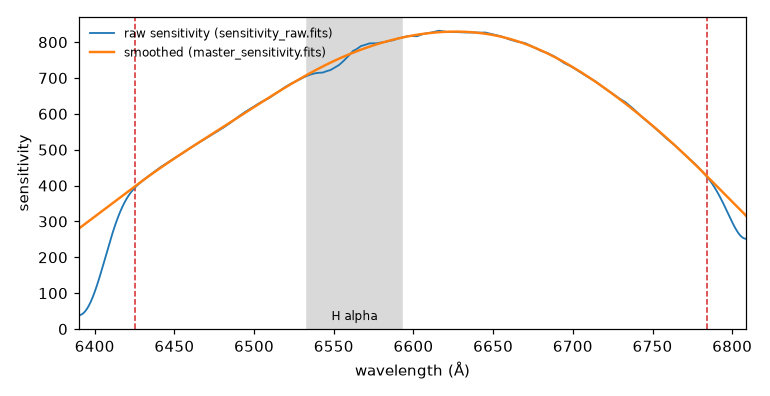
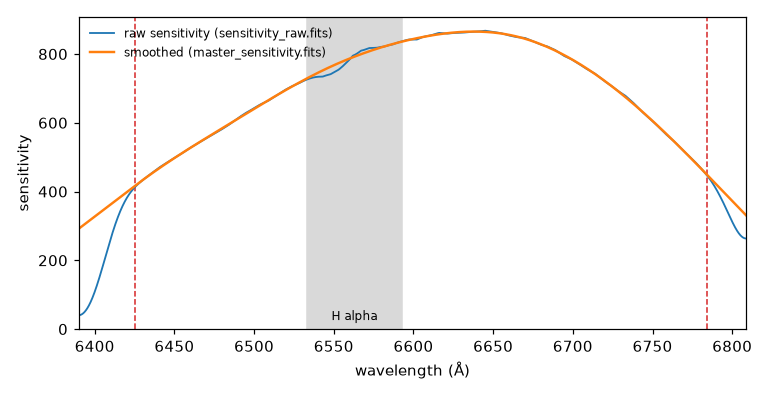
Use the measured offset of the standard star and add figures of FLATMASK
The offset of the traces in the images of the standard star, measured
with megaradrp-trace_offset, is 5.49 pixels, not +4.5. The acquisition
and the standard star use +5.5, with the new centroid as position; the
flux of the star in the 37 fibers is 4.6 % higher. The log of the
acquisition and the sensitivity figure come from the new reduction.

New figures of the zero order of the VPH: FLATMASK in the fiber flat,
with the light that it adds to the fibers, and in the cube of M15.

diff --git a/cookbook/datared.rst b/cookbook/datared.rst
@@ -1035,6 +1035,12 @@ agrees with the value +2.5 estimated by eye on the image. The offset of each
 band shows that it changes slightly along the columns (from 2.73 to 2.37
 pixels); the recipes apply the offset fitted to the whole image.
 
+In the images of the standard star, the offset measured is 5.49 pixels, and
+the value +5.5 is used in ``6_LcbAdquisition.yaml`` and
+``7_StandardStar.yaml``. An offset one pixel off is not obvious in the
+image, but it matters: with +4.5, the flux of the star in the 37 fibers
+used for the sensitivity is about 4 % lower.
+
 The image is divided in bands of columns. In each band, the profile of
 the rows is fitted with the traces moved by a trial offset (a gaussian per
 fiber, with free amplitudes, plus a smooth background), and the offset that
@@ -1666,35 +1672,35 @@ then returned both in mm and arcsec. This information is saved in the
 .. code-block:: console
    :class: my-special-block no-copybutton
 
-   2024-10-15 15:42:50,808 - numina.user.baserun - INFO - running recipe
-   2024-10-15 15:42:50,808 - numina.recipes.megara - INFO - starting AC LCB reduction
+   2026-11-25 17:01:07,198 - numina.user.baserun - INFO - running recipe
+   2026-11-25 17:01:07,198 - megaradrp.recipes.auxiliary.acquisitionlcb - INFO - starting AC LCB reduction
    ...
    ...
    ...
-   2024-10-15 15:45:56,053 - numina.recipes.megara - INFO - end sky subtraction
-   2024-10-15 15:45:56,354 - numina.recipes.megara - DEBUG - LCB configuration is b7dcd9d1-0b60-4b43-b26e-d2c9868d5e20
-   2024-10-15 15:45:56,567 - megaradrp.processing.centroid - DEBUG - LCB configuration is b7dcd9d1-0b60-4b43-b26e-d2c9868d5e20
-   2024-10-15 15:45:56,568 - megaradrp.processing.centroid - INFO - maximum flux in spaxel 311 -- unknown
-   2024-10-15 15:45:56,851 - megaradrp.processing.centroid - DEBUG - LCB configuration is b7dcd9d1-0b60-4b43-b26e-d2c9868d5e20
-   2024-10-15 15:45:56,852 - megaradrp.processing.centroid - DEBUG - adding 3 nrings
-   2024-10-15 15:45:56,852 - megaradrp.processing.centroid - DEBUG - adding 37 fibers
-   2024-10-15 15:45:56,852 - megaradrp.processing.centroid - INFO - Using 37 nearest fibers
-   2024-10-15 15:45:56,852 - megaradrp.processing.centroid - DEBUG - unit is arcsec
-   2024-10-15 15:45:56,852 - megaradrp.processing.centroid - INFO - For point [0.465000003576279, 0.0] arcsec
-   2024-10-15 15:45:56,852 - megaradrp.processing.centroid - INFO - For point [0.38366336928735895, 0.0] mm
-   2024-10-15 15:45:56,852 - megaradrp.processing.centroid - DEBUG - nearest fibers
-   2024-10-15 15:45:56,852 - megaradrp.processing.centroid - DEBUG - [311, 289, 333, 313, 310, 314, 308, 293, 329, 307, 316, 335, 312, 291, 331, 315, 309, 317, 305, 325, 297, 304, 319, 222, 400, 288, 334, 327, 295, 318, 306, 404, 218, 292, 330, 302, 320]
-   2024-10-15 15:45:56,853 - megaradrp.processing.centroid - INFO - centroid: [0.36011112054854194, 0.052631794609784954] arcsec
-   2024-10-15 15:45:56,853 - megaradrp.processing.centroid - INFO - centroid: [0.29712138659120624, 0.04342557311038363] mm
-   2024-10-15 15:45:56,853 - megaradrp.processing.centroid - INFO - 2nd order moments, x2=0.354878, y2=0.353604, xy=-0.006228 arcsec^2
-   2024-10-15 15:45:56,853 - megaradrp.processing.centroid - INFO - FWHM , x=1.402805, y=1.400284 arcsec
+   2026-11-25 17:01:33,293 - megaradrp.recipes.auxiliary.acquisitionlcb - INFO - end sky subtraction
+   2026-11-25 17:01:33,619 - megaradrp.recipes.auxiliary.acquisitionlcb - DEBUG - LCB configuration is b7dcd9d1-0b60-4b43-b26e-d2c9868d5e20
+   2026-11-25 17:01:33,850 - megaradrp.processing.centroid - DEBUG - LCB configuration is b7dcd9d1-0b60-4b43-b26e-d2c9868d5e20
+   2026-11-25 17:01:33,851 - megaradrp.processing.centroid - INFO - maximum flux in spaxel 311 -- unknown
+   2026-11-25 17:01:34,082 - megaradrp.processing.centroid - DEBUG - LCB configuration is b7dcd9d1-0b60-4b43-b26e-d2c9868d5e20
+   2026-11-25 17:01:34,083 - megaradrp.processing.centroid - DEBUG - adding 3 nrings
+   2026-11-25 17:01:34,083 - megaradrp.processing.centroid - DEBUG - adding 37 fibers
+   2026-11-25 17:01:34,083 - megaradrp.processing.centroid - INFO - Using 37 nearest fibers
+   2026-11-25 17:01:34,084 - megaradrp.processing.centroid - DEBUG - unit is arcsec
+   2026-11-25 17:01:34,084 - megaradrp.processing.centroid - INFO - For point [0.465000003576279, 0.0] arcsec
+   2026-11-25 17:01:34,084 - megaradrp.processing.centroid - INFO - For point [0.38366336928735895, 0.0] mm
+   2026-11-25 17:01:34,084 - megaradrp.processing.centroid - DEBUG - nearest fibers
+   2026-11-25 17:01:34,084 - megaradrp.processing.centroid - DEBUG - [311, 289, 333, 310, 313, 314, 308, 329, 293, 316, 307, 335, 312, 291, 331, 315, 309, 317, 305, 325, 297, 304, 319, 222, 400, 288, 334, 327, 295, 318, 306, 404, 218, 292, 330, 302, 320]
+   2026-11-25 17:01:34,084 - megaradrp.processing.centroid - INFO - centroid: [0.3644183391359853, 0.05357011931310853] arcsec
+   2026-11-25 17:01:34,084 - megaradrp.processing.centroid - INFO - centroid: [0.3006751973069186, 0.044199768410155556] mm
+   2026-11-25 17:01:34,084 - megaradrp.processing.centroid - INFO - 2nd order moments, x2=0.353805, y2=0.353930, xy=-0.005749 arcsec^2
+   2026-11-25 17:01:34,084 - megaradrp.processing.centroid - INFO - FWHM , x=1.400682, y=1.400931 arcsec
 
 
 In this example, the brightest spaxel is located at ``[0.38366336928735895,
 0.0] mm`` relative to the center of the field, which is, by definition
 located at ``[0.0, 0.0] mm``. The position of the centroid obtained from
-the 37 fibers around this spaxels is ``[0.29712138659120624,
-0.04342557311038363] mm``. **Note**: these numbers depend on whether you are
+the 37 fibers around this spaxels is ``[0.3006751973069186,
+0.044199768410155556] mm``. **Note**: these numbers depend on whether you are
 using the trace map ``master_traces.json`` or the model map
 ``master_model.json`` (see section :ref:`Tracing_Fibers`).
 

diff --git a/cookbook/quality.rst b/cookbook/quality.rst
@@ -247,6 +247,18 @@ The wavelengths are those of all the fibers: the band is at fixed columns, so
 its wavelength changes along the pseudo-slit, and each fiber covers only a
 part of the range.
 
+.. image:: _static/flatmask_fiberflat.png
+   :width: 6.0in
+
+**Figure 16b:** The zero order of the VPH in the fiber flat of the cookbook
+(HR-R). Left: bit 1 of ``FLATMASK`` in ``master_fiberflat.fits``, for each
+fiber. The band covers about 4 Å in each fiber, between 6607 and 6618 Å,
+and its wavelength changes along the pseudo-slit. Right: excess of light
+around the columns of the zero order in the ``reduced_image.fits`` of the
+fiber flat, at the peaks of the fibers and between them (rows 1501 to
+2500), relative to the level of the fibers. The excess is similar in both:
+the zero order is light added to the fibers.
+
 The zero order is not removed from the science images. The twilight flat
 recipe leaves it out of the region used to normalize the fibers.
 
@@ -295,5 +307,21 @@ the WCS of the cube:
 Since the zero order of the VPH is at fixed columns of the detector, its
 wavelength changes from fiber to fiber. In the cube it is not a plane, but a
 band whose wavelength changes across the field of view, with a pattern that
-follows the position of the fibers in the pseudo-slit. Use ``FLATMASK`` to
-find it before interpreting a spatial structure at those wavelengths.
+follows the position of the fibers in the pseudo-slit (**Figure 16c**). Use
+``FLATMASK`` to find it before interpreting a spatial structure at those
+wavelengths.
+
+.. code-block:: console
+
+   (megara) $ megaradrp-cube -p 0.4 -o cube_M15.fits \
+              obsid8_LcbImage_HR-R_M15_results/final_rss.fits
+
+.. image:: _static/flatmask_cube.png
+   :width: 6.0in
+
+**Figure 16c:** Bit 1 of ``FLATMASK`` in the cube of M15 (nearest
+neighbour, 0.4 arcsec pixels). Left: mean wavelength of the planes flagged
+in each spaxel. It goes from 6609 Å at the top and bottom of the field of
+view to 6616 Å at its centre, following the position of the fibers in the
+pseudo-slit. Right: fraction of the spaxels of the field of view flagged in
+each plane. No plane is flagged in the whole field of view.

diff --git a/cookbook/megaratools.rst b/cookbook/megaratools.rst
@@ -176,7 +176,7 @@ geometry of the cube (see :ref:`Masks`): ``WLMAP`` is 1 in the pixels of the
 cube with data from all their fibers, and ``FLATMASK`` has in each pixel the
 bits of the fibers that contribute to it. The zero order of the VPH, at
 fixed columns of the detector, appears in the cube as a band whose
-wavelength changes across the field of view.
+wavelength changes across the field of view (see **Figure 16c**).
 
 An alternative software with similar scope has been developed by Javier
 Zaragoza Cardiel (from INAOE) and can be obtained through GitHub at
